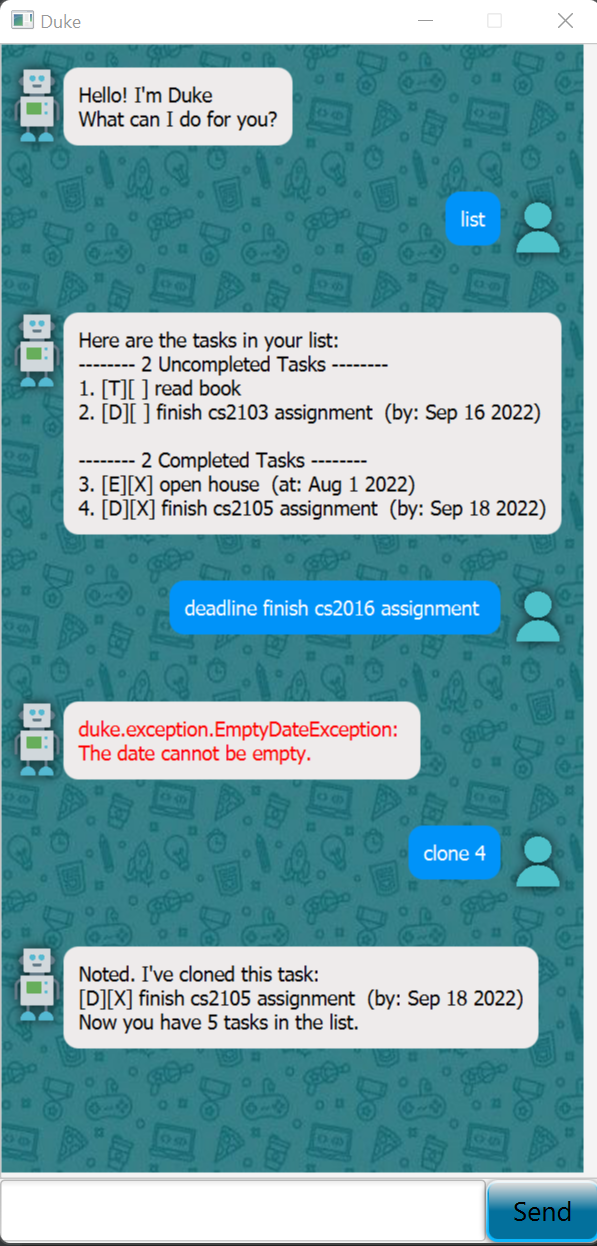
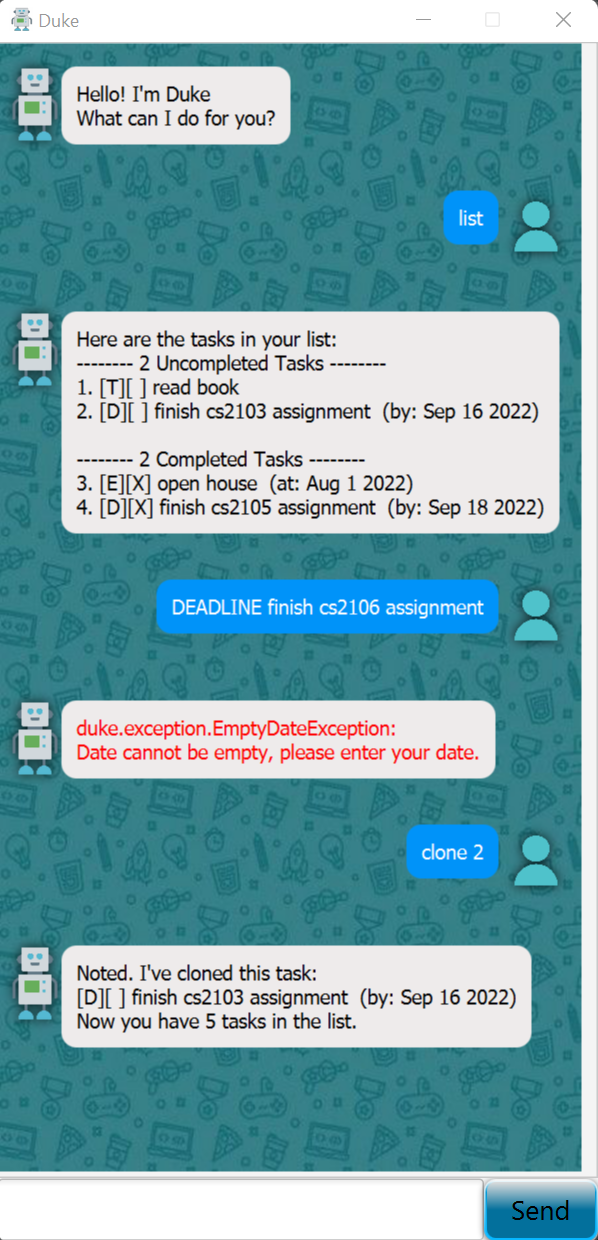
Update Ui.png and fix minor bugs

diff --git a/src/main/java/duke/ui/Main.java b/src/main/java/duke/ui/Main.java
@@ -4,6 +4,7 @@ import java.io.IOException;
 import javafx.application.Application;
 import javafx.fxml.FXMLLoader;
 import javafx.scene.Scene;
+import javafx.scene.image.Image;
 import javafx.scene.layout.AnchorPane;
 import javafx.stage.Stage;
 
@@ -13,6 +14,7 @@ import javafx.stage.Stage;
 public class Main extends Application {
 
     private Duke duke = new Duke();
+    private Image dukeImage = new Image(this.getClass().getResourceAsStream("/images/DaDuke.png"));
 
     @Override
     public void start(Stage stage) {
@@ -23,6 +25,7 @@ public class Main extends Application {
             stage.setScene(scene);
             fxmlLoader.<MainWindow>getController().setDuke(duke);
             stage.setTitle("Duke");
+            stage.getIcons().add(dukeImage);
             stage.setResizable(false);
             stage.setMinHeight(800.0);
             stage.setMinWidth(400.0);

diff --git a/src/main/java/duke/exception/EmptyDateException.java b/src/main/java/duke/exception/EmptyDateException.java
@@ -9,6 +9,6 @@ public class EmptyDateException extends DukeException {
      * Constructor for empty description exception.
      */
     public EmptyDateException() {
-        super("\nThe date cannot be empty.");
+        super("\nDate cannot be empty, please enter your date.");
     }
 }

diff --git a/src/main/java/duke/ui/DialogBox.java b/src/main/java/duke/ui/DialogBox.java
@@ -36,7 +36,6 @@ public class DialogBox extends HBox {
 
         dialog.setText(text);
         dialog.setStyle(style);
-        dialog.setMinSize(10, 10);
         displayPicture.setImage(img);
     }
 
